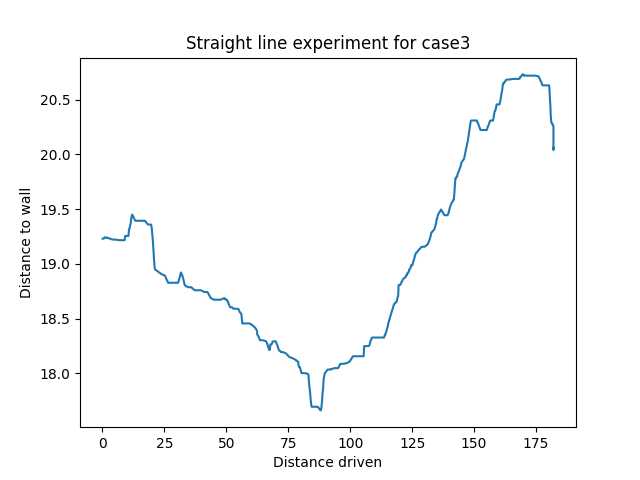
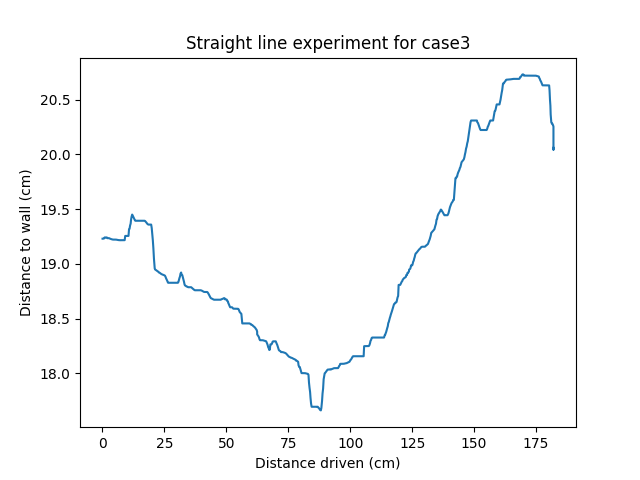
All experiments scripts ready

Changed region(s): [[0.4062, 0.9375, 0.625, 1.0], [0.0312, 0.3438, 0.0625, 0.6562]]

diff --git a/docs/experiment-plots/final-whole-route-plot.py b/docs/experiment-plots/final-whole-route-plot.py
@@ -2,43 +2,18 @@ import numpy as np
 import matplotlib.pyplot as plt
 from bag_decoder import BagFileParser
 
-
-def individual_summary_boxplot(summary_data_list, output_destination_folder, fig_width=10, fig_height=6):
-    plt.figure(figsize=(fig_width, fig_height))
-    # data[1] is ultrasonic distance
-    plt.boxplot([data[1] for data in summary_data_list], labels=cases)
-    plt.xlabel('Case')
-    plt.ylabel('Distance to wall')
-    plt.title('Summary box plot')
-    plt.tight_layout()
-
-    plt.savefig(f'{output_destination_folder}/individual_box_plots.png')
-
-
-def summary_boxplot(all_min_distances, output_destination_folder, fig_width=10, fig_height=6):
-    plt.figure(figsize=(fig_width, fig_height))
-    plt.boxplot(all_min_distances)
-    plt.xlabel('All Cases')
-    plt.ylabel('Distance to wall')
-    plt.title('Summary Box Plot')
-    plt.tight_layout()
-
-    plt.savefig(f'{output_destination_folder}/summary_box_plot.png')
-
-
 if __name__ == "__main__":
     cases = ['case1', 'case2', 'case3', 'case4', 'case5', 'case6', 'case7', 'case8', 'case9', 'case10']
-    output_folder = "1-straight-line"
+    output_folder = "4-final-whole-route"
 
     # Store all data for summary plot
     summary_data = []
-    all_min_distances = []
 
     for case in cases:
 
         plt.figure()
 
-        bag_file = "../experiments/1-straight-line/{}/{}_0.db3".format(case, case)
+        bag_file = "../experiments/4-final-whole-route/{}/{}_0.db3".format(case, case)
 
         parser = BagFileParser(bag_file)
 
@@ -79,7 +54,7 @@ if __name__ == "__main__":
         plt.plot(encoder_filtered, min_distances_filtered)
         plt.xlabel('Distance driven (cm)')
         plt.ylabel('Distance to wall (cm)')
-        plt.title(f'Straight line experiment for {case}')
+        plt.title(f'Final whole route experiment for {case}')
 
         plt.savefig(f'{output_folder}/{case}_plot.png')
 
@@ -87,7 +62,6 @@ if __name__ == "__main__":
 
         # Store data for summary plot
         summary_data.append((encoder_filtered, min_distances_filtered))
-        all_min_distances.extend(min_distances_filtered)
 
     # Summary plot
     plt.figure(figsize=(14, 10))
@@ -99,14 +73,17 @@ if __name__ == "__main__":
     plt.axhline(y=18, color='black', linestyle='--', label='Lower/Upper acceptance limit (18/22 cm)')
     plt.axhline(y=22, color='black', linestyle='--')
 
+    plt.axvline(x=5, linestyle='--', label='Analyze')
+    plt.axvline(x=180, linestyle='--', label='Clearance')
+    plt.axvline(x=200, linestyle='--', label='Left turn')
+    plt.axvline(x=210, linestyle='--', label='Width')
+
     plt.xlabel('Distance driven (cm)')
     plt.ylabel('Distance to wall (cm)')
-    plt.title('Straight line experiment')
-    plt.legend(loc='lower right')  # Legend moved to outside of plot
+    plt.title('Final whole route experiment')
+
+    plt.ylim(0, 70)  # Adjust the y-axis to range from 0 to 50
+
+    plt.legend(loc='upper left')  # Legend moved to outside of plot
 
     plt.savefig(f'{output_folder}/summary_plot.png')
-
-    # Individual cases box plot
-    individual_summary_boxplot(summary_data, output_folder)
-    # Summarizing box plot
-    summary_boxplot(all_min_distances, output_folder, fig_height=10)

diff --git a/docs/experiment-plots/square-plot.py b/docs/experiment-plots/square-plot.py
@@ -1,0 +1,61 @@
+import numpy as np
+import matplotlib.pyplot as plt
+from bag_decoder import BagFileParser
+
+if __name__ == "__main__":
+    cases = ['case1', 'case2', 'case3', 'case4', 'case5', 'case6', 'case7', 'case8', 'case9', 'case10']
+    output_folder = "3-square"
+
+    # Store all data for summary plot
+    summary_data = []
+
+    for case in cases:
+
+        plt.figure()
+
+        bag_file = "../experiments/3-square/{}/{}_0.db3".format(case, case)
+
+        parser = BagFileParser(bag_file)
+
+        left_encoder = parser.get_messages("/left_encoder/distance")
+        right_encoder = parser.get_messages("/right_encoder/distance")
+        total_encoder = parser.get_messages("/total_encoder/distance")
+
+        left_encoder_timestamps = [(left_encoder[i][0] - left_encoder[0][0]) / 1e9 for i in range(len(left_encoder))]
+        left_encoder_distances = [left_encoder[i][1].data for i in range(len(left_encoder))]
+
+        right_encoder_timestamps = [(right_encoder[i][0] - right_encoder[0][0]) / 1e9 for i in range(len(right_encoder))]
+        right_encoder_distances = [right_encoder[i][1].data for i in range(len(right_encoder))]
+
+        total_encoder_timestamps = [(total_encoder[i][0] - total_encoder[0][0]) / 1e9 for i in range(len(total_encoder))]
+        total_encoder_distances = [total_encoder[i][1].data for i in range(len(total_encoder))]
+
+        plt.plot(left_encoder_timestamps, left_encoder_distances, label="Left encoder")
+        plt.plot(right_encoder_timestamps, right_encoder_distances, label="Right encoder")
+        plt.plot(total_encoder_timestamps, total_encoder_distances, label="Total encoder")
+
+        plt.xlabel('Time (s)')
+        plt.ylabel('Distance driven (cm)')
+        plt.title(f'Straight line with stops experiment for {case}')
+        plt.xlim(0, 22)  # Adjust the y-axis to range from 0 to 50
+
+        plt.legend(loc='upper left')  # Legend moved to outside of plot
+
+        plt.savefig(f'{output_folder}/{case}_plot.png')
+
+        plt.close()
+
+        # Store data for summary plot
+        summary_data.append((total_encoder_timestamps, total_encoder_distances, case))
+
+    # Summary plot
+    plt.figure(figsize=(14, 10))
+
+    for timestamps, distances, case in summary_data:
+        plt.plot(timestamps, distances, label=case)
+    
+    plt.xlabel('Time (s)')
+    plt.ylabel('Distance driven')
+    plt.title('Summary of all cases')
+    plt.legend(loc='upper left', bbox_to_anchor=(1, 1))  # Legend moved to outside of plot
+    plt.savefig(f'{output_folder}/summary_plot.png')

diff --git a/docs/experiment-plots/straight-line-stops-plot.py b/docs/experiment-plots/straight-line-stops-plot.py
@@ -52,8 +52,8 @@ if __name__ == "__main__":
                 min_distances_filtered.append(min_distance)
 
         plt.plot(encoder_filtered, min_distances_filtered)
-        plt.xlabel('Distance driven')
-        plt.ylabel('Distance to wall')
+        plt.xlabel('Distance driven (cm)')
+        plt.ylabel('Distance to wall (cm)')
         plt.title(f'Straight line with stops experiment for {case}')
 
         plt.savefig(f'{output_folder}/{case}_plot.png')
@@ -64,7 +64,7 @@ if __name__ == "__main__":
         summary_data.append((encoder_filtered, min_distances_filtered))
 
     # Summary plot
-    plt.figure(figsize=(14, 7))
+    plt.figure(figsize=(14, 10))
 
     for i, (encoder_filtered, min_distances_filtered) in enumerate(summary_data):
         plt.plot(encoder_filtered, min_distances_filtered, label=cases[i])
@@ -73,9 +73,12 @@ if __name__ == "__main__":
     plt.axhline(y=18, color='black', linestyle='--', label='Lower/Upper acceptance limit (18/22 cm)')
     plt.axhline(y=22, color='black', linestyle='--')
 
-    plt.xlabel('Distance driven')
-    plt.ylabel('Distance to wall')
+    plt.xlabel('Distance driven (cm)')
+    plt.ylabel('Distance to wall (cm)')
     plt.title('Straight line with stops experiment')
+
+    plt.ylim(0, 70)  # Adjust the y-axis to range from 0 to 50
+
     plt.legend(loc='upper left')  # Legend moved to outside of plot
 
     plt.savefig(f'{output_folder}/summary_plot.png')
